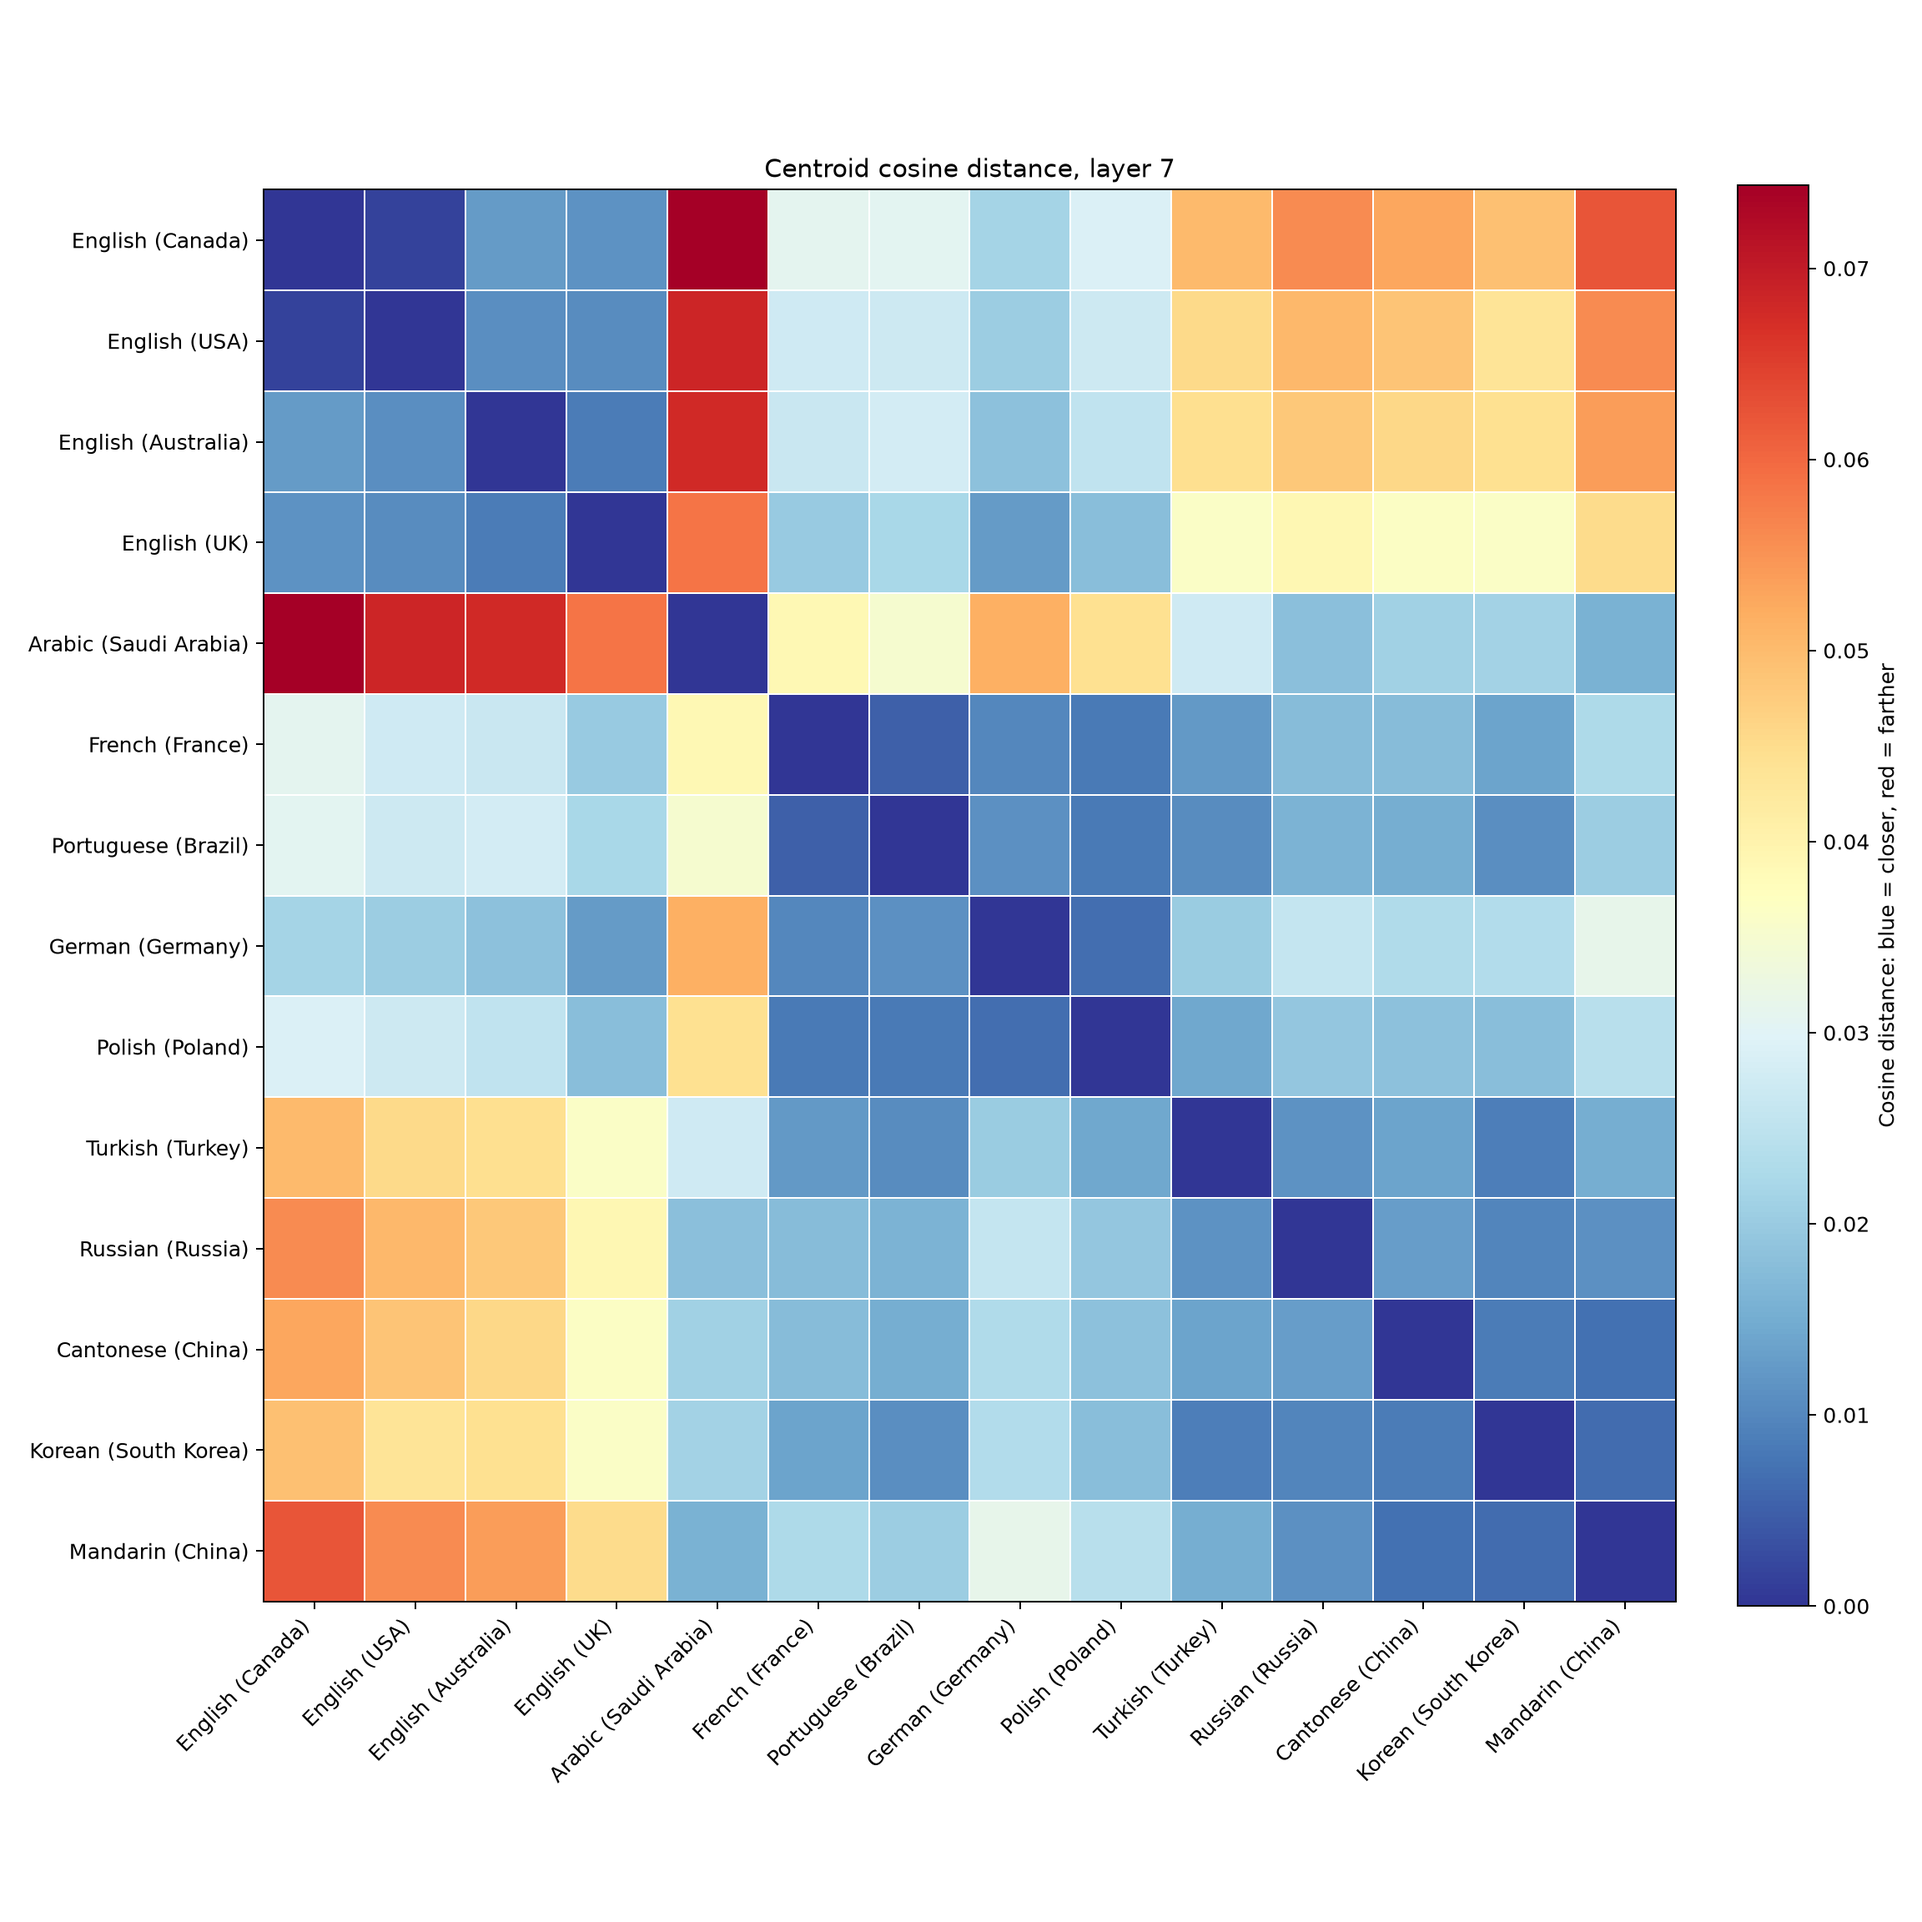
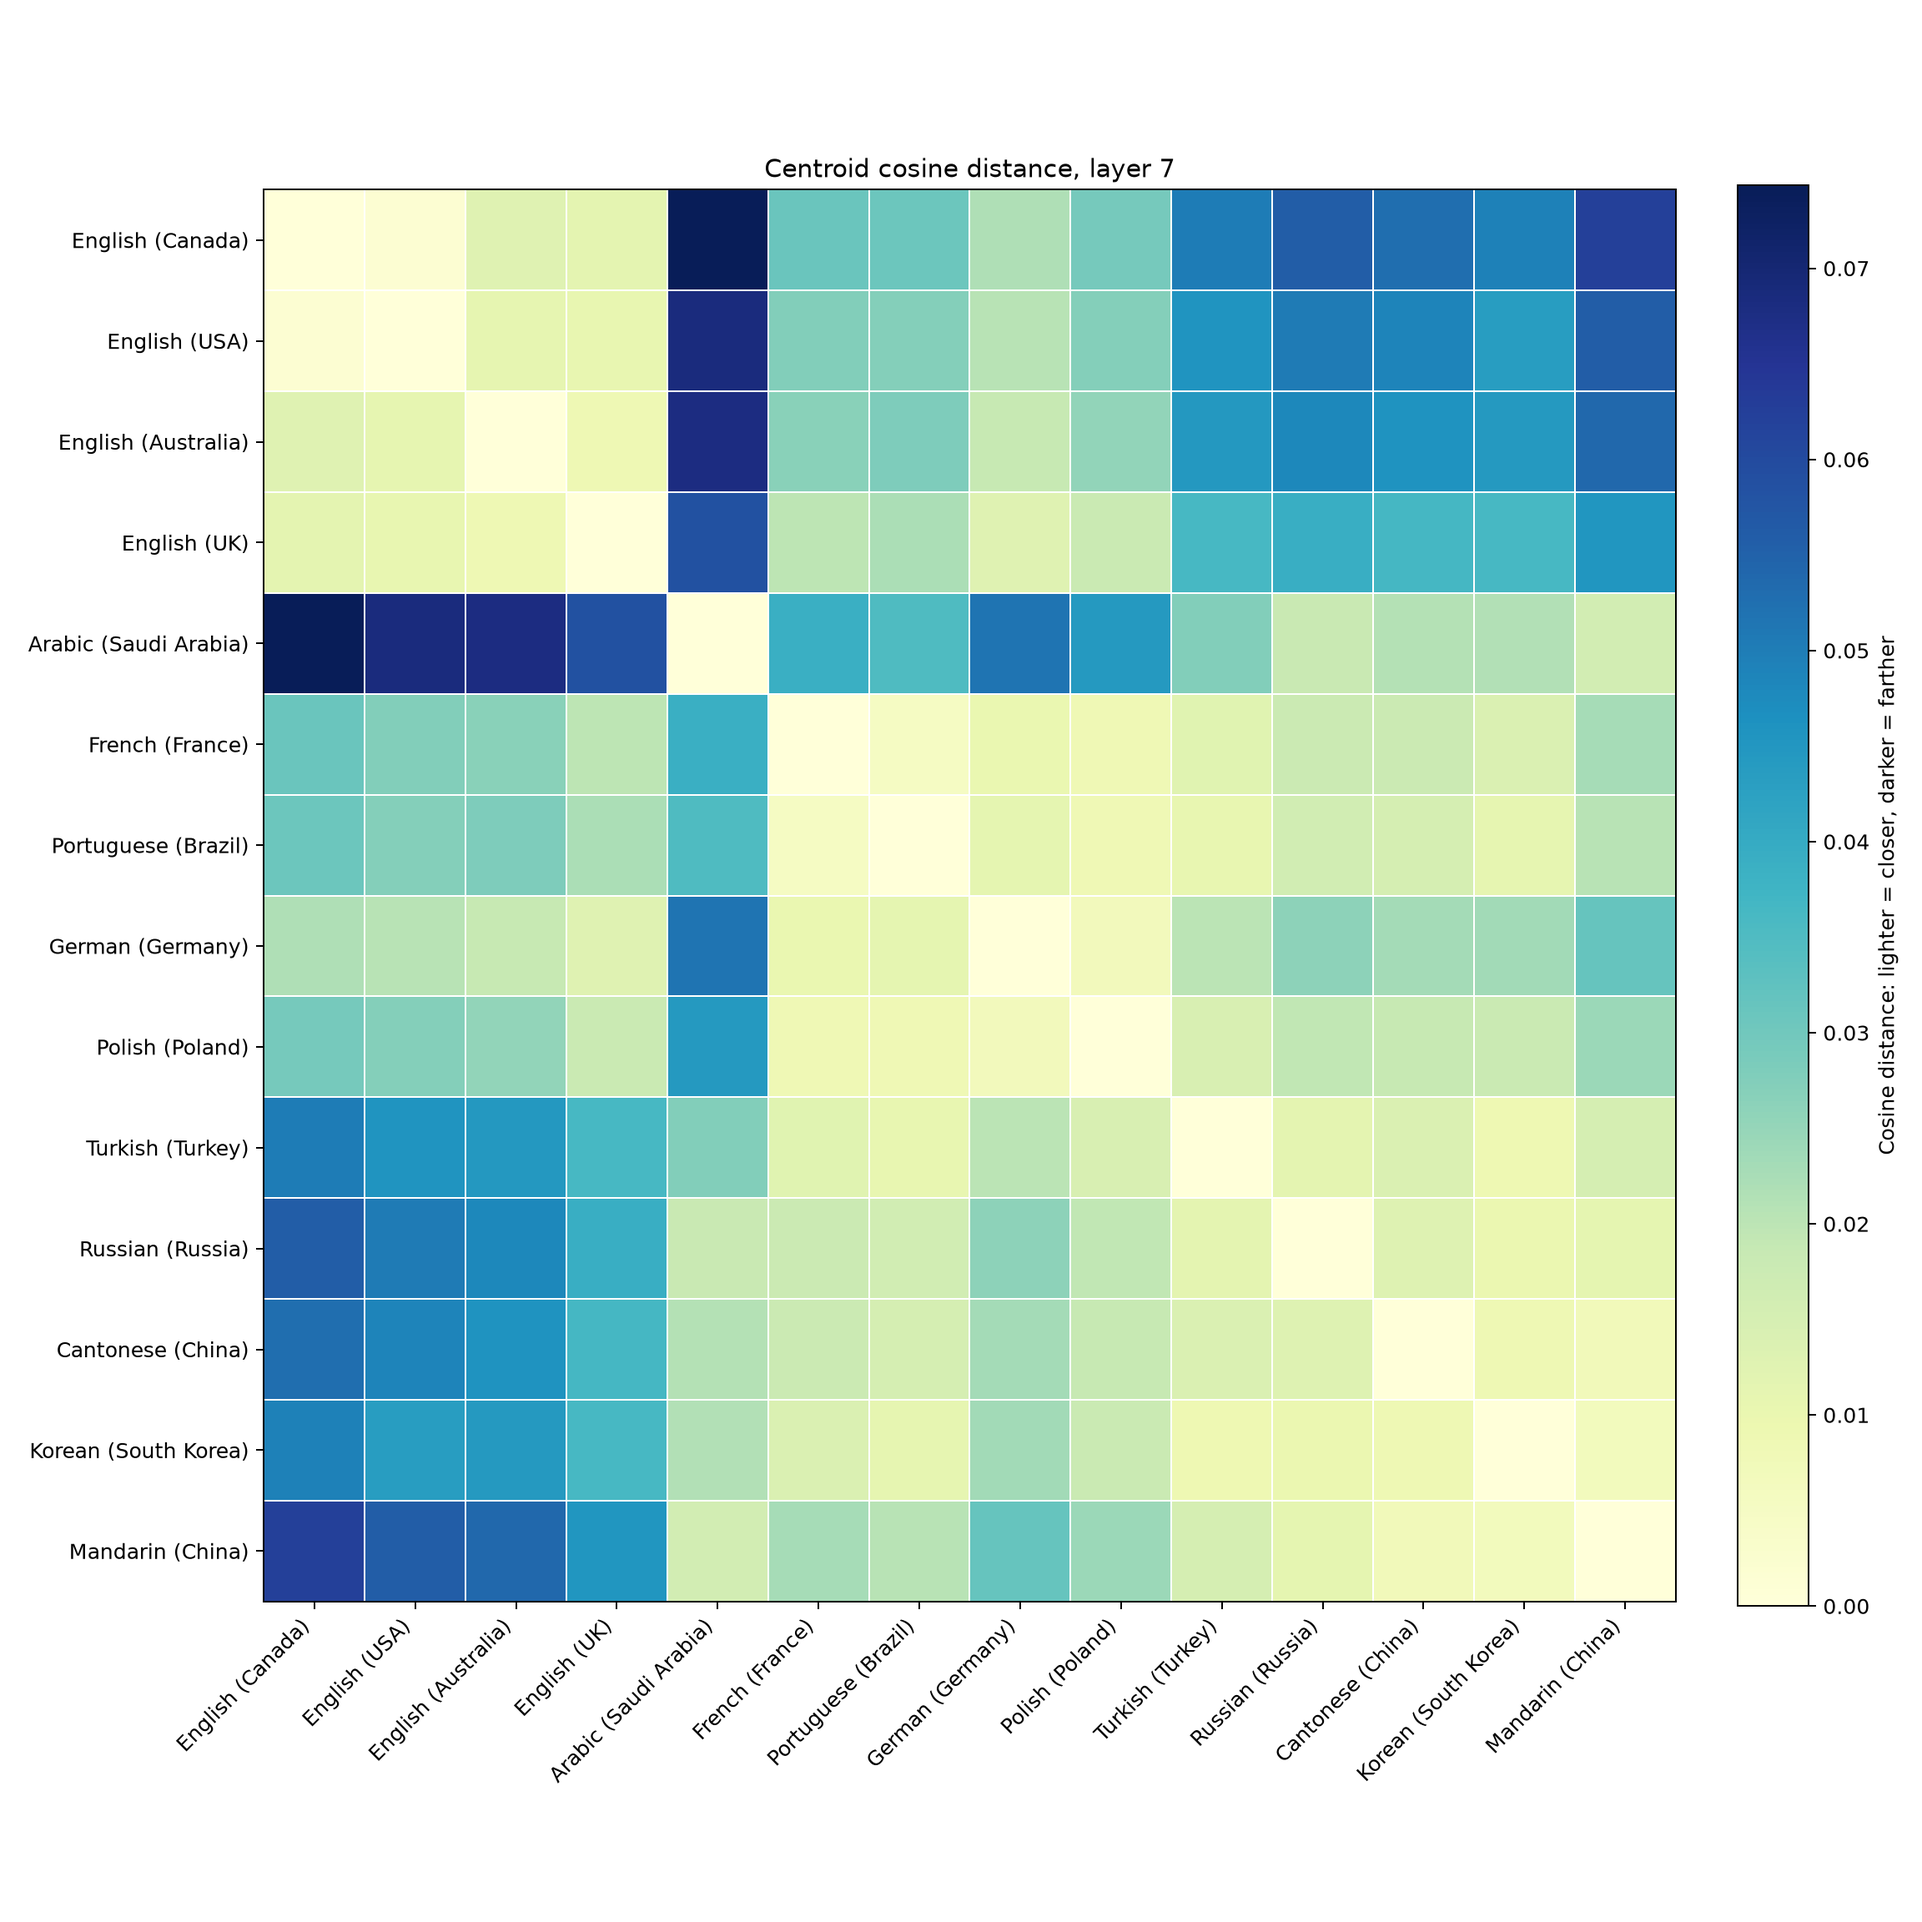
Better clusters

diff --git a/src/analysis/centroid_clustering.py b/src/analysis/centroid_clustering.py
@@ -8,6 +8,7 @@ import matplotlib
 matplotlib.use("Agg")
 
 import matplotlib.pyplot as plt
+from matplotlib.transforms import Bbox
 import numpy as np
 import pandas as pd
 from scipy.cluster.hierarchy import dendrogram, leaves_list, linkage
@@ -187,7 +188,7 @@ def plot_distance_heatmap(
     fig, ax = plt.subplots(figsize=(size, size))
     image = ax.imshow(
         ordered.to_numpy(dtype=float),
-        cmap="RdYlBu_r",
+        cmap="YlGnBu",
         vmin=0.0,
         vmax=float(np.nanmax(ordered.to_numpy(dtype=float))),
     )
@@ -201,7 +202,7 @@ def plot_distance_heatmap(
     ax.tick_params(which="minor", bottom=False, left=False)
     ax.set_title(title or "Centroid cosine distance")
     colorbar = fig.colorbar(image, ax=ax, fraction=0.046, pad=0.04)
-    colorbar.set_label("Cosine distance: blue = closer, red = farther", fontsize=10)
+    colorbar.set_label("Cosine distance: lighter = closer, darker = farther", fontsize=10)
     fig.tight_layout()
     fig.savefig(path, dpi=180)
     plt.close(fig)
@@ -241,22 +242,12 @@ def plot_centroid_pca(
     values = centroids.drop(columns=["label"]).to_numpy(dtype=float)
     coords = PCA(n_components=2, random_state=42).fit_transform(values)
 
-    fig, ax = plt.subplots(figsize=(11.0, 7.5))
+    fig, ax = plt.subplots(figsize=(12.0, 8.0))
     ax.scatter(coords[:, 0], coords[:, 1], s=70, color="#1f77b4", zorder=3)
-    label_positions = _repel_label_positions(coords)
-    for label, point, label_pos in zip(labels, coords, label_positions, strict=True):
-        ax.annotate(
-            label,
-            xy=(point[0], point[1]),
-            xytext=(label_pos[0], label_pos[1]),
-            textcoords="data",
-            fontsize=10,
-            arrowprops={"arrowstyle": "-", "color": "#888888", "lw": 0.7},
-            bbox={"boxstyle": "round,pad=0.18", "fc": "white", "ec": "none", "alpha": 0.75},
-            zorder=4,
-        )
+    _set_padded_limits(ax, coords)
     ax.axhline(0, color="#dddddd", linewidth=1)
     ax.axvline(0, color="#dddddd", linewidth=1)
+    _place_pca_labels(ax, labels, coords)
     ax.set_xlabel("PC1")
     ax.set_ylabel("PC2")
     ax.set_title(title or "Centroid PCA")
@@ -266,28 +257,125 @@ def plot_centroid_pca(
     return path
 
 
-def _repel_label_positions(coords: np.ndarray, iterations: int = 250) -> np.ndarray:
-    positions = coords.astype(float).copy()
+def _set_padded_limits(ax: plt.Axes, coords: np.ndarray) -> None:
     x_span = max(float(np.ptp(coords[:, 0])), 1e-6)
     y_span = max(float(np.ptp(coords[:, 1])), 1e-6)
-    min_dx = 0.11 * x_span
-    min_dy = 0.065 * y_span
+    ax.set_xlim(float(np.min(coords[:, 0])) - 0.24 * x_span, float(np.max(coords[:, 0])) + 0.28 * x_span)
+    ax.set_ylim(float(np.min(coords[:, 1])) - 0.20 * y_span, float(np.max(coords[:, 1])) + 0.20 * y_span)
 
-    # Initial small offset so labels do not sit directly on the markers.
-    positions[:, 0] += 0.025 * x_span
-    positions[:, 1] += 0.018 * y_span
 
-    for _ in range(iterations):
-        for i in range(len(positions)):
-            for j in range(i + 1, len(positions)):
-                dx = positions[j, 0] - positions[i, 0]
-                dy = positions[j, 1] - positions[i, 1]
-                if abs(dx) < min_dx and abs(dy) < min_dy:
-                    push_x = 0.5 * (min_dx - abs(dx) + 1e-6) * (1 if dx >= 0 else -1)
-                    push_y = 0.5 * (min_dy - abs(dy) + 1e-6) * (1 if dy >= 0 else -1)
-                    positions[j, 0] += push_x
-                    positions[i, 0] -= push_x
-                    positions[j, 1] += push_y
-                    positions[i, 1] -= push_y
-        positions += 0.01 * (coords - positions)
-    return positions
+def _place_pca_labels(ax: plt.Axes, labels: list[str], coords: np.ndarray) -> None:
+    fig = ax.figure
+    fig.canvas.draw()
+    renderer = fig.canvas.get_renderer()
+
+    point_boxes = _point_bboxes(ax, coords)
+    placed_boxes: list[Bbox] = []
+    center = coords.mean(axis=0)
+    nearest_neighbor = pairwise_distances(coords)
+    np.fill_diagonal(nearest_neighbor, np.inf)
+    placement_order = np.argsort(nearest_neighbor.min(axis=1))
+
+    for idx in placement_order:
+        label = labels[idx]
+        point = coords[idx]
+        candidates = _label_offset_candidates(point, center)
+        best_annotation = None
+        best_box = None
+        best_score = np.inf
+
+        for offset in candidates:
+            annotation = _make_pca_annotation(ax, label, point, offset)
+            fig.canvas.draw()
+            box = annotation.get_window_extent(renderer).expanded(1.08, 1.18)
+            score = _label_box_score(box, point_boxes, placed_boxes, ax.get_window_extent(renderer))
+            if score < best_score:
+                if best_annotation is not None:
+                    best_annotation.remove()
+                best_annotation = annotation
+                best_box = box
+                best_score = score
+            else:
+                annotation.remove()
+            if score == 0:
+                break
+
+        if best_box is not None:
+            placed_boxes.append(best_box)
+
+
+def _label_offset_candidates(point: np.ndarray, center: np.ndarray) -> list[tuple[int, int]]:
+    direction = point - center
+    if np.linalg.norm(direction) == 0:
+        direction = np.array([1.0, 0.0])
+    x_sign = 1 if direction[0] >= 0 else -1
+    y_sign = 1 if direction[1] >= 0 else -1
+    outward = [
+        (x_sign * 74, y_sign * 34),
+        (x_sign * 92, 0),
+        (x_sign * 74, -y_sign * 34),
+        (0, y_sign * 44),
+        (x_sign * 116, y_sign * 48),
+        (x_sign * 116, -y_sign * 48),
+        (-x_sign * 74, y_sign * 34),
+        (-x_sign * 92, 0),
+        (-x_sign * 74, -y_sign * 34),
+        (0, -y_sign * 44),
+    ]
+    wider_search = [
+        (130, 62),
+        (130, -62),
+        (-130, 62),
+        (-130, -62),
+        (0, 70),
+        (0, -70),
+        (160, 0),
+        (-160, 0),
+    ]
+    return outward + wider_search
+
+
+def _make_pca_annotation(
+    ax: plt.Axes,
+    label: str,
+    point: np.ndarray,
+    offset: tuple[int, int],
+) -> plt.Annotation:
+    return ax.annotate(
+        label,
+        xy=(point[0], point[1]),
+        xytext=offset,
+        textcoords="offset points",
+        fontsize=10,
+        ha="center",
+        va="center",
+        arrowprops={"arrowstyle": "-", "color": "#888888", "lw": 0.7, "shrinkA": 4, "shrinkB": 6},
+        bbox={"boxstyle": "round,pad=0.18", "fc": "white", "ec": "none", "alpha": 0.88},
+        zorder=4,
+    )
+
+
+def _point_bboxes(ax: plt.Axes, coords: np.ndarray, radius_px: float = 10.0) -> list[Bbox]:
+    display_points = ax.transData.transform(coords)
+    return [
+        Bbox.from_extents(x - radius_px, y - radius_px, x + radius_px, y + radius_px)
+        for x, y in display_points
+    ]
+
+
+def _label_box_score(box: Bbox, point_boxes: list[Bbox], placed_boxes: list[Bbox], axes_box: Bbox) -> float:
+    point_overlap = sum(_bbox_overlap_area(box, point_box) for point_box in point_boxes)
+    label_overlap = sum(_bbox_overlap_area(box, placed_box) for placed_box in placed_boxes)
+    outside = (
+        max(0.0, axes_box.x0 - box.x0)
+        + max(0.0, box.x1 - axes_box.x1)
+        + max(0.0, axes_box.y0 - box.y0)
+        + max(0.0, box.y1 - axes_box.y1)
+    )
+    return 1000.0 * point_overlap + 250.0 * label_overlap + 25.0 * outside
+
+
+def _bbox_overlap_area(left: Bbox, right: Bbox) -> float:
+    width = max(0.0, min(left.x1, right.x1) - max(left.x0, right.x0))
+    height = max(0.0, min(left.y1, right.y1) - max(left.y0, right.y0))
+    return width * height
